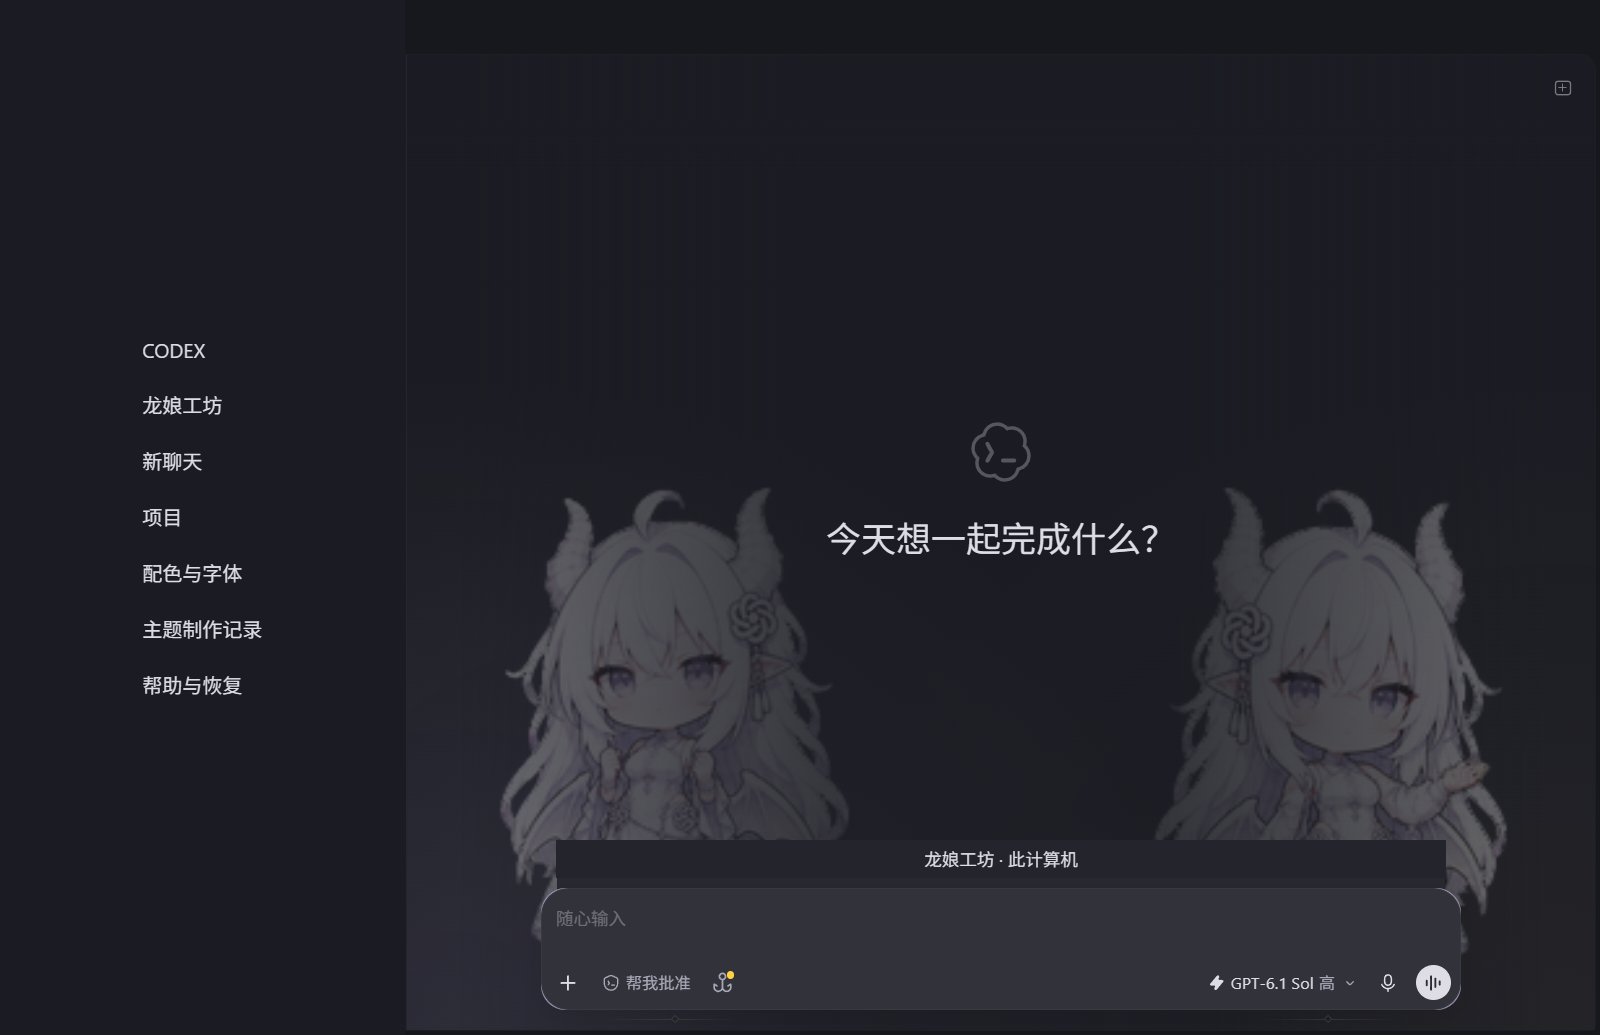
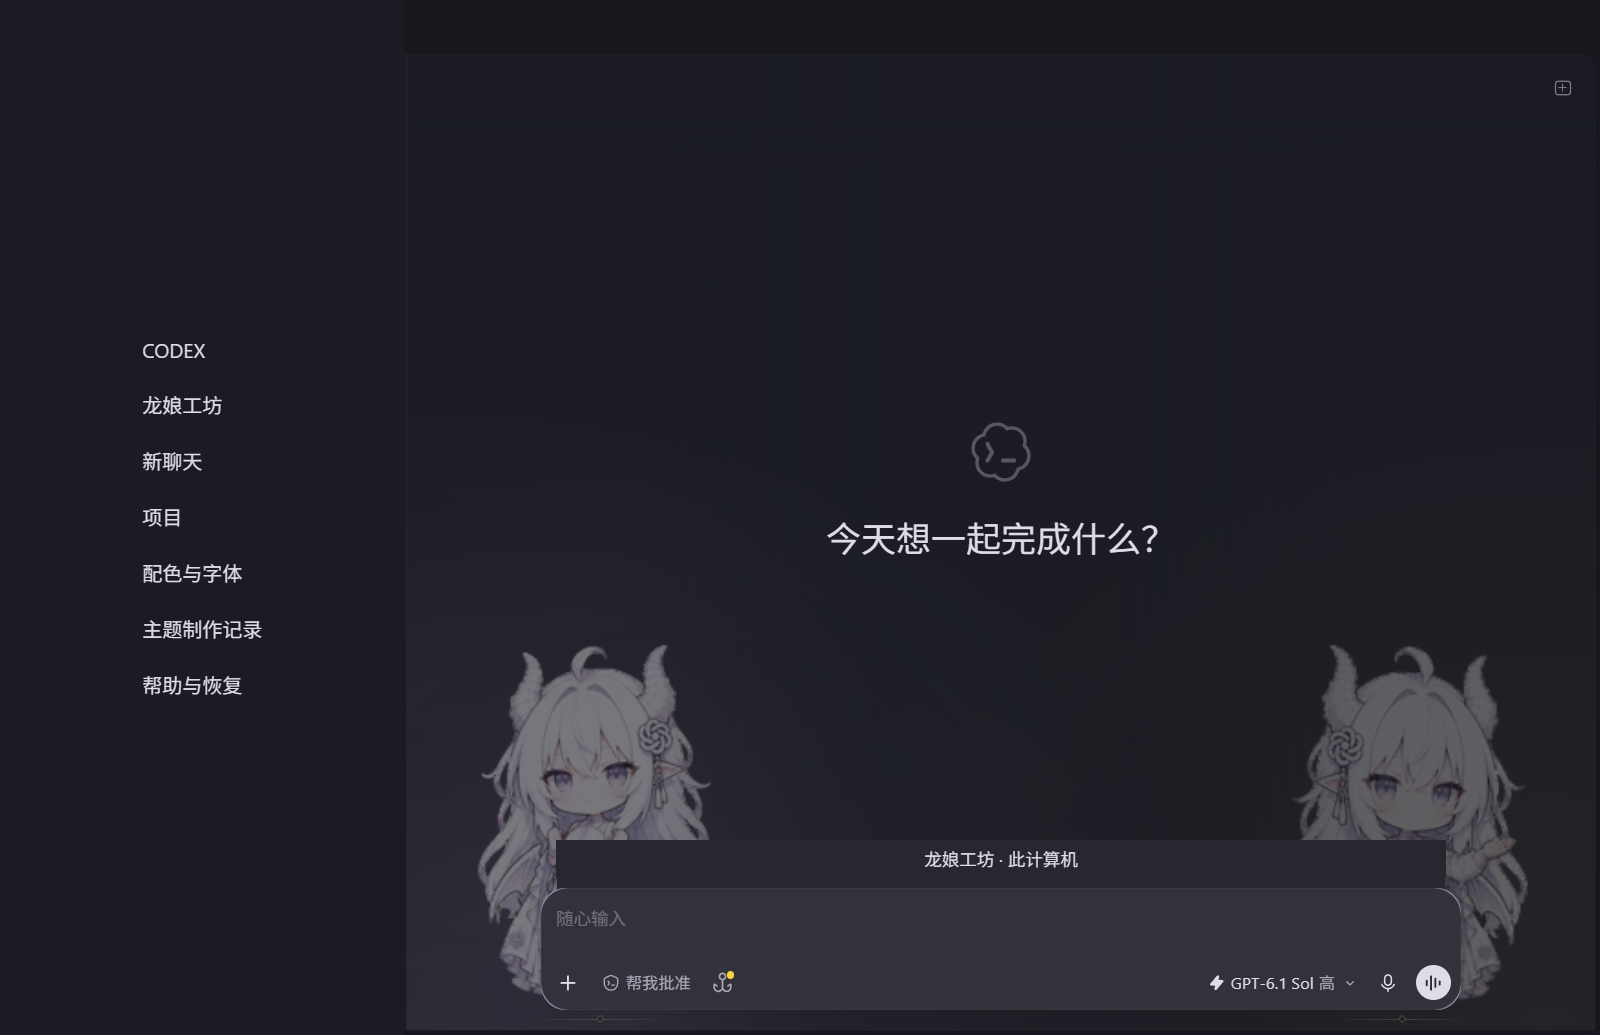
Refine dual backgrounds after design review and fix WinPS launch hashing

Changed region(s): [[0.7188, 0.4638, 0.9688, 0.9585], [0.2812, 0.4638, 0.5, 0.9585]]

diff --git a/src/atelier.css b/src/atelier.css
@@ -1,12 +1,12 @@
 html[data-dragon-atelier] {
-  --da-bg: #1b1c23; --da-panel: #23242c; --da-alt: #2b2c35;
+  --da-bg: #1b1c23; --da-panel: #26272f; --da-alt: #2b2c35;
   --da-text: #dedde6; --da-muted: #aaa8b8; --da-accent: #b4a6ce;
-  --da-line: #484651; --da-gold: #a89773;
+  --da-line: #53515f; --da-gold: #a89773;
 }
 html[data-dragon-atelier][data-da-mode=light] {
   --da-bg: #e8e7ed; --da-panel: #f0eff3; --da-alt: #dedce5;
   --da-text: #35333f; --da-muted: #625d70; --da-accent: #6f5888;
-  --da-line: #b7b0c4; --da-gold: #776346;
+  --da-line: #b0a8bc; --da-gold: #776346;
 }
 /* Palette is bound to stable semantic slots. Native fonts, geometry and status colors remain authoritative. */
 html[data-dragon-atelier] [data-da-part] {
@@ -58,23 +58,28 @@ html[data-dragon-atelier] [data-da-part=main] :is([data-local-conversation-final
 #dragon-atelier-scene * {pointer-events:none !important;}
 #dragon-atelier-scene::after {
   content:'';position:absolute;inset:0;pointer-events:none;
-  background:linear-gradient(90deg,transparent 4%,color-mix(in srgb,var(--da-bg) 65%,transparent) 35%,color-mix(in srgb,var(--da-bg) 65%,transparent) 65%,transparent 96%);
+  background:linear-gradient(90deg,transparent 20%,color-mix(in srgb,var(--da-bg) 50%,transparent) 40%,color-mix(in srgb,var(--da-bg) 50%,transparent) 60%,transparent 80%);
 }
 #dragon-atelier-scene .da-dragon {
   position:absolute;bottom:12px;width:var(--da-character-width,400px);aspect-ratio:192/208;
   background-repeat:no-repeat;background-size:800% 1100%;background-position:0 0;
-  filter:brightness(.78) saturate(.64);opacity:.44;
+  --da-art-opacity:.48;--da-art-thread-opacity:.24;
+  filter:brightness(.82) saturate(.68);opacity:var(--da-art-opacity);
 }
-html[data-da-mode=light] #dragon-atelier-scene .da-dragon {filter:brightness(.92) saturate(.64);opacity:.34;}
-#dragon-atelier-scene .da-right {transform:scaleX(-1);background-position:28.5714285714% 60%;}
+html[data-da-mode=light] #dragon-atelier-scene .da-dragon {filter:brightness(.88) saturate(.62);}
+#dragon-atelier-scene .da-right {transform:scaleX(-1);background-position:28.5714285714% 60%;--da-art-opacity:.38;--da-art-thread-opacity:.16;filter:brightness(.78) saturate(.64);}
+html[data-da-mode=light] #dragon-atelier-scene .da-right {--da-art-thread-opacity:.18;filter:brightness(.90) saturate(.58);}
 /* Existing full-body illustrations with background-only alpha edits.
    Both static figures belong behind native content, with an unequal scale. */
 #dragon-atelier-scene[data-da-edition=portrait] .da-dragon {
   aspect-ratio:941/1672;background-size:100% 100%;background-position:center;
-  transform:none;filter:brightness(.86) saturate(.58);opacity:.38;
+  --da-art-opacity:.42;--da-art-thread-opacity:.22;
+  transform:none;filter:brightness(.88) saturate(.62);
   mask-image:linear-gradient(0deg,transparent,#000 8%);
 }
-html[data-da-mode=light] #dragon-atelier-scene[data-da-edition=portrait] .da-dragon {filter:brightness(.96) saturate(.58);opacity:.34;}
+html[data-da-mode=light] #dragon-atelier-scene[data-da-edition=portrait] .da-dragon {--da-art-opacity:.45;--da-art-thread-opacity:.26;filter:brightness(.94) saturate(.56);}
+#dragon-atelier-scene[data-da-edition=portrait] .da-right {--da-art-opacity:.32;--da-art-thread-opacity:.14;filter:brightness(.84) saturate(.58);}
+html[data-da-mode=light] #dragon-atelier-scene[data-da-edition=portrait] .da-right {--da-art-opacity:.36;--da-art-thread-opacity:.18;filter:brightness(.92) saturate(.52);}
 #dragon-atelier-scene[data-da-edition=portrait] .da-left {aspect-ratio:937/1678;}
 #dragon-atelier-scene .da-ornament {
   position:absolute;bottom:8px;height:1px;width:110px;background:linear-gradient(90deg,transparent,var(--da-gold),transparent);opacity:.3;
@@ -83,8 +88,7 @@ html[data-da-mode=light] #dragon-atelier-scene[data-da-edition=portrait] .da-dra
   content:'';position:absolute;width:5px;height:5px;left:53px;top:-2px;
   border:1px solid var(--da-gold);transform:rotate(45deg);background:var(--da-bg);
 }
-#dragon-atelier-scene[data-da-context=thread] .da-dragon {opacity:.18;}
-html[data-da-mode=light] #dragon-atelier-scene[data-da-context=thread] .da-dragon {opacity:.14;}
+#dragon-atelier-scene[data-da-context=thread] .da-dragon {opacity:var(--da-art-thread-opacity);}
 #dragon-atelier-scene[data-da-hidden=true] {visibility:hidden;}
 @media (prefers-reduced-motion:reduce) {
   #dragon-atelier-scene * {transition:none !important;animation:none !important;}

diff --git a/src/renderer.js b/src/renderer.js
@@ -76,8 +76,9 @@
     // Large, quiet background figures scale with the chat surface, not viewport.
     // Active conversations retreat; narrow surfaces keep the reading space clear.
     const portrait=CONFIG.edition==='portrait';
-    const widths=portrait?[.94,.72].map((scale,i)=>Math.min(box.width*(i===0?.40:.32),box.height*(home?scale:scale*.66)*CONFIG.aspects[i])):
-      [0,1].map(()=>Math.min(home?440:360,box.width*.42,box.height*(home?.82:.64)*192/208));
+    const widths=portrait?[.94,.72].map((scale,i)=>Math.min(box.width*(i===0?.42:.26),box.height*(home?scale:scale*.66)*CONFIG.aspects[i])):
+      // The source frame is 192x208: cap enlargement rather than inventing detail.
+      [0,1].map(()=>Math.min(home?280:240,box.width*.34,box.height*(home?.60:.46)*192/208));
     const width=widths[0];
     const visible=box.width>=700&&box.height>420;
     setAttr(scene,'data-da-hidden',visible?'false':'true');

diff --git a/docs/VALIDATION.md b/docs/VALIDATION.md
@@ -1,21 +1,22 @@
-# v0.1.0-beta.2 本地候选验证
+# v0.1.0-beta.2 验证
 
-2026-10-07，Windows Store Codex 26.1002.6548.0，Node 24.16.0。此次未发布新 GitHub Release；公开首版记录保留在后半部分。
+2026-10-07，Windows Store Codex 26.1002.6548.0，Node 24.16.0。首版记录作为历史范围保留在后半部分。
 
 ## 本次真实客户端
 
 - Q 版与正常立绘版首页：原生深/浅两主题，聊天底层舞台、各两个人物、132 个空间命中点均不由舞台接收点击；截图已逐张人工查看并匿名化。
 - 两版输入区与移除装饰后的几何差异小于 1px；实际输入测试字再清空、不发送；原生模型菜单打开和关闭、恢复均通过。
-- 当前真实会话中两版都识别 thread、显示两个人物，输入命中通过。正常立绘版深浅两种会话中用真实鼠标滚轮验证阅读区滚动，不发送消息。
+- 评审改动后重新检查：Q 版和正常立绘版各自的深浅两种首页、输入、原生模型菜单、恢复，以及真实会话滚轮均通过。当前真实会话识别 thread、各显示两个人物，不发送消息。
 - 当前客户端聊天列采用 flex-col-reverse，scrollTop 可为负数；测试按真实滚轮行为核对，未把正向 scrollTop 赋值无变化误判为冻结。
 - PowerShell 5.1 启动 -> PowerShell 7 恢复，以及 7 启动 -> 5.1 恢复均通过；身份时间比较兼容 JSON 日期自动转换。切换版型核对 PID、路径及创建时间，只结束自己的观察进程。
+- 最终中文 CMD 入口检查发现当前 WinPS 环境无法解析 Get-FileHash。哈希计算已改为 .NET SHA256，避免依赖该模块函数，不修改系统模块路径；随后重新执行启动入口。
 - 测试窗口关闭时，后台 CDP 和 renderer 仍存在，动画帧停止。重复打开同一测试配置恢复了窗口和自动点击，未改变窗口尺寸。启动器已加入同配置重新打开处理；不是历史桌面遮挡的复现。
 - 当前运行版型为正常立绘版，保留原生明暗选择与字体。未验证全新账号首次登录或未来客户端升级。
 
 ## 自动检查与素材
 
 - 每版 16 类浏览器行为回归通过：自动明暗、语义状态色、窄列/侧面板挤占退让、聊天内 z0 舞台、菜单层级、边缘控件点击、静态不同姿态、空闲无持续重绘、缓存旧路由、会话背景、减少动态效果、inert、缺失锚点、未知定位主区域降级、恢复。
-- 3 项配色测试通过，正文与次要文字在定义阅读表面满足 4.5:1。未据此声称人物下的每个实际像素都已逐一测量。
+- 3 项配色测试通过，并独立重算最终色值、核对 CSS 与 tokens 一致。深色正文/次要文字在定义表面最低 10.295 / 5.945，浅色最低 9.121 / 4.662；焦点色对面板 6.569 / 5.353。装饰边线不声明满足 3:1；未据此声称每个实际像素或全部原生控件已逐一测量。
 - Q 原始图集字节未变；正常立绘原图与透明成品均有来源、尺寸、SHA256。透明成品 RGBA、四角 alpha=0，白色人物区域保持不透明填色；做了背景处理，不声称像素完全一致。
 - 构建和包装使用明确白名单，私有 evidence、用户配置和认证材料不进入包。
 
@@ -25,9 +26,11 @@
 
 只读原生窗口快照及“无匹配开屏进程时不结束其他应用”的恢复分支，在 PowerShell 5.1/7 均执行通过。故障现场的命中句柄和实际开屏运行中解除仍需现场验证。
 
-## 尚待事项
+## 设计评审与未验证范围
 
-用户要求的 Opus 5.5 设计评审提示词已准备；自动审批拒绝向 Wawazz 发送 CSS/配色及匿名截图，等待具体发送授权。本记录不声称该模型已调用成功。其他平台、客户端版本、显示缩放、多显示器、跨升级迁移未验证。
+用户明确授权后，通过既有本地 Wawazz 链路发送项目设计提示、CSS/配色及四张匿名主题截图。首次直连在上传时连接重置；随后通过现有系统代理完成一次评审，HTTP 200，请求及返回模型标识均为 claude-opus-5-5，正常 end_turn。标识由转发服务返回，不作为底层模型身份的独立证明。完整原始评审与请求仅保存在本机忽略目录；公开说明见 [设计评审](DESIGN_REVIEW.md)。
+
+其他平台、客户端版本、不同显示缩放、多显示器、跨升级迁移、长期内存稳定性、真实系统高对比度模式，以及每类 Markdown / 语法高亮的专门视觉验收未完成。模拟行为回归和当前客户端检查不能代替这些范围。
 
 ---
 

diff --git a/README.md b/README.md
@@ -2,7 +2,7 @@
 
 克制的明暗双主题，同一位 GPT 白发龙娘的双姿态作为聊天背景。灵感来自 DSH Maid Atelier 的底层舞台与双角色构图；这是独立的非官方主题项目。
 
-**v0.1.0-beta.2 本地候选版 · Windows Store Codex 26.1002.6548.0 实机验证。** 当前公开 Release 仍为 v0.1.0-beta.1；本分支的背景版尚未发布。原生配色通过官方导入，人物通过可恢复的本机 CDP 装饰。
+**v0.1.0-beta.2 · Windows Store Codex 26.1002.6548.0 实机验证。** [Windows 预发布下载](https://github.com/NoelCornel/Codex-Dragon-Atelier/releases/tag/v0.1.0-beta.2)。原生配色通过官方导入，人物通过可恢复的本机 CDP 装饰。
 
 | Q 版背景 | 正常立绘背景 |
 |---|---|
@@ -22,7 +22,7 @@ Q 版素材：fywdy，原设 ZipZipPipe。立绘左侧：ZipZipPipe，右侧：A
 ## 体验与恢复
 
 - 静态人物放在聊天主区域第一子节点、z-index:0，正文、输入区及原生菜单保留在前景；人物不可点击、不会生成桌面置顶覆盖窗。
-- Q 版采用原始图集两个不同静态姿态。立绘版使用两张现成正常比例图，一大一小；只做透明背景处理，不绑定模型名称。
+- Q 版采用原始图集两个不同静态姿态，限制放大尺寸。立绘版使用两张现成正常比例图，一大一小；只做透明背景处理，不绑定模型名称。
 - 会话页人物退让；聊天区域宽度小于 700px 或高度不大于 420px 时隐藏。设置页和系统高对比度模式不显示人物。
 - 保留原生明暗切换、字体、输入区尺寸及红绿语义颜色。所有人物均为静态，减少动态效果模式同样适用。
 - 双击「恢复装饰.cmd」结束本项目观察进程并移除本项目样式和人物。原生配色保留；恢复颜色需导入先前保存的分享码。
@@ -39,13 +39,13 @@ python tests/browser-regression.py
 node scripts/package.mjs
 ```
 
-模拟回归需要 Python Playwright 和 Chromium。实际客户端与模拟页面的检查分开记录，见 [验证记录](docs/VALIDATION.md)。构建产物在 `dist/`；包使用文件白名单，不含本机证据、账号配置或聊天内容。
+模拟回归需要 Python Playwright 和 Chromium。实际客户端与模拟页面的检查分开记录，见 [验证记录](docs/VALIDATION.md)。本版经过一次用户授权的 Opus 设计评审，采纳与约束的取舍见 [设计评审](docs/DESIGN_REVIEW.md)。构建产物在 `dist/`；包使用文件白名单，不含本机证据、账号配置或聊天内容。
 
 新版 Codex 保留不可见旧路由，适配器仅选择可见节点。缺失锚点或未来客户端采用不支持的主区域定位时关闭装饰。兼容版本在 `src/adapter.json`；其他版本、平台及跨更新迁移尚未验证。
 
 ## 分支、补丁与授权
 
-独立仓库：`main` 为首版公开基线，`theme/dragon-atelier` 为首版主题分支；当前本地背景改造在 `fix/background-stage-handoff`，未推送新 Release。
+独立仓库：`main` 为首版公开基线，`theme/dragon-atelier` 为首版主题分支；本版背景改造在 `fix/background-stage-handoff`。旧版 Release 保留，新增版本作为预发布提供。
 
 另附 Dynamic Skin Manager 1.6.2 的 [运行时资源打包修复补丁](patches/README.md)，未重编译管理器 EXE，未声称上游合入。
 

diff --git a/docs/DESIGN_REVIEW.md b/docs/DESIGN_REVIEW.md
@@ -1,0 +1,47 @@
+# 设计评审与实现取舍
+
+2026-10-07，对 Q 版 / 正常立绘版各自的深浅实机匿名截图、项目需求和 CSS / 配色做了一次授权评审。复用本机既有 Wawazz 的 Anthropic messages 链路，请求与返回的模型标识均为 `claude-opus-5-5`；HTTP 200、完整 end_turn。服务返回的标识不能独立证明底层模型身份。
+
+原始请求、认证调用脚本和完整响应都不进入仓库与发行包。没有外发私人聊天、故障日志或本机配置；凭据仅用于认证。
+
+## 采纳的方向
+
+- 增强浅色人物线条、通过左右不同透明度建立主次。
+- 正常立绘首页拉开大小：宽度上限为聊天列 42% / 26%，同时约束各自高度和原图宽高比。当前实机首页为 399 / 247px；会话退让后不承诺恒定 1.6:1 比例。
+- 中央渐变最大背景混合由 65% 降到 50%，20–40% / 60–80% 为两侧过渡。原实现已有渐变，评审所称“硬边界”不作为已证实的代码问题。
+- 深色面板改为 #26272f、边线 #53515f；浅色边线 #b0a8bc，改善表面层级。
+
+## 保留与修正
+
+用户要求降低整体亮度，因此保留原底色 #1b1c23 / #e8e7ed，没有采用全面提亮浅色到近白的建议。所有原生字体、字号、几何布局、菜单层级和状态色保持由原生客户端负责，不新增水印控件或网络字体。
+
+Q 帧仅有 192×208，首页 / 会话最大宽度改为 280 / 240px，减少放大模糊。原图集不修改；这不是高分辨率重制，仍受素材本身分辨率限制。
+
+评审建议的宽度 CSS 示例遗漏了人物宽高比，实际仍通过现有 renderer 计算尺寸，没有直接复制示例。评审给出的对比度为估算，实施后在本地重新计算。
+
+## 最终人物参数
+
+下表透明度为左 / 右；滤镜按深 / 浅两套固定，会话只调整透明度和尺寸。
+
+| 版本 | 首页深色 | 首页浅色 | 会话深色 | 会话浅色 |
+|---|---|---|---|---|
+| Q | .48 / .38 | .48 / .38 | .24 / .16 | .24 / .18 |
+| 正常立绘 | .42 / .32 | .45 / .36 | .22 / .14 | .26 / .18 |
+
+| 版本 | 深色左 brightness / saturate | 深色右 | 浅色左 | 浅色右 |
+|---|---|---|---|---|
+| Q | .82 / .68 | .78 / .64 | .88 / .62 | .90 / .58 |
+| 正常立绘 | .88 / .62 | .84 / .58 | .94 / .56 | .92 / .52 |
+
+## 配色实算与验收界限
+
+按 sRGB 相对亮度计算；正文和次要文字取 background / panel / panelAlt 三种定义阅读表面中的最低值。
+
+| 模式 | 正文最低 | 次要文字最低 | 焦点对面板 |
+|---|---|---|---|
+| 深色 | 10.295:1 | 5.945:1 | 6.569:1 |
+| 浅色 | 9.121:1 | 4.662:1 | 5.353:1 |
+
+这不是整个客户端的无障碍认证。装饰边线未声明 3:1，每个原生控件、人物后面的实际像素仍需按使用情境检查。
+
+最终改动后重新做了两版本、两模式的真实首页截图 / 输入不发送 / 原生模型菜单 / 恢复，以及实际会话鼠标滚轮。场景回归覆盖窄列、侧面板挤占、菜单层级、缺失节点降级、点击穿透和空闲无持续重绘。原生控件没有因人物增加新桌面窗口；未来 Codex 升级及其他平台仍需重新验证，见 [完整记录](VALIDATION.md)。

diff --git a/docs/DESIGN.md b/docs/DESIGN.md
@@ -4,7 +4,9 @@
 
 DSH Maid Atelier 的参考颗粒度是聊天区域内的底层舞台，不是桌面浮窗：主聊天节点已有定位，不新增它的 z-index 或 isolation；人物舞台作为第一个子节点，绝对定位、z-index:0、contain:strict、inert、pointer-events:none。后续静态原生子节点只补 position:relative，不提升层级，原生弹层保留自身层级。嵌套聊天画布透明，实际消息表面采用 94% 背景混合以保护阅读。
 
-Q 版显示 fywdy 原图集的两个静态姿态。正常立绘使用 ZipZipPipe 原图与 ApprenTice 已有另一姿态，imagegen 仅移除背景，按透明成品的各自宽高比显示。左右按聊天主区域尺寸缩放，正常立绘一大一小；活跃会话缩小、降低不透明度。聊天区域宽度小于 700px 或高度不大于 420px 时隐藏，侧面工作面板占位也会触发退让，不只检查整个窗口。
+Q 版显示 fywdy 原图集的两个静态姿态。原帧只有 192×208，首页宽度上限 280px、会话 240px，避免过度放大，不声称获得更高分辨率细节。正常立绘使用 ZipZipPipe 原图与 ApprenTice 已有另一姿态，imagegen 仅移除背景，按透明成品的各自宽高比显示。左右按聊天主区域尺寸缩放，正常立绘首页宽度上限为聊天列的 42% / 26%，高度上限 94% / 72%；会话高度再乘 .66。聊天区域宽度小于 700px 或高度不大于 420px 时隐藏，侧面工作面板占位也会触发退让，不只检查整个窗口。
+
+左右人物使用独立的透明度与滤镜。浅色加强线条的可辨认程度；会话页降低人物存在感，消息表面继续保护正文。中央背景渐变由 65% 降到 50%，两侧过渡区是 20–40% / 60–80%。深色只加强面板和边界；浅色保持原有底色亮度。具体参数、实算对比度及评审取舍见 [设计评审](DESIGN_REVIEW.md)。
 
 computed color-scheme 是原生明暗信号，旧 electron-dark/light 类只作为回退。适配器选择可见原生节点，避免新版缓存旧路由误判。缺少节点或主聊天节点为 position:static 时降级关闭，不修改未知布局。
 

diff --git a/docs/RELEASE_NOTES.md b/docs/RELEASE_NOTES.md
@@ -1,0 +1,17 @@
+# 龙娘工坊 v0.1.0-beta.2
+
+两个静态聊天背景版本：Q 版双姿态与正常立绘左大右小。人物位于原生聊天内容后方，保留克制的明暗双主题、原生字体、输入几何和菜单。构图灵感来自 DSH Maid Atelier。
+
+本版经过一次授权的 Opus 设计评审并在本机复核：增强浅色人物细节、降低中央渐变强度、拉开立绘大小、限制 Q 图放大。底色保持低亮度，完整取舍见 docs/DESIGN_REVIEW.md。
+
+验证：Windows Store Codex 26.1002.6548.0、Node 24.16.0。两版本各自的深浅首页、输入不发送、模型菜单、恢复，以及真实会话滚轮均通过；每版 16 类场景回归和配色检查通过。其他平台 / 版本 / 缩放 / 多显示器和长期运行未完整验收。
+
+使用：下载 Windows ZIP，核对 SHA256SUMS.txt。需要 Node.js 22+；先保存原生主题分享码，导入 ZIP 内深浅分享码，再运行“启动Q版背景.cmd”或“启动立绘背景.cmd”。独立配置窗口可能需要重新登录；“恢复装饰.cmd”移除本项目装饰。
+
+启动器能重新打开关闭后仍保留后台 renderer 的同配置窗口；哈希计算改用 .NET SHA256，兼容 WinPS 中 Get-FileHash 无法解析的环境。另提供“记录窗口遮挡.cmd”与严格按安装路径及 PID 创建时间匹配的“解除开屏遮挡.cmd”。历史开屏卡死原因尚未确认，这些工具不代表已彻底修复该故障。
+
+保留 Dynamic Skin Manager 1.6.2 运行时文件遗漏的源补丁，未重编译其 EXE。
+
+署名：GPT 原设 / ZipZipPipe；Q 素材 / fywdy；右侧正常立绘 / ApprenTice；DSH 构图灵感 / Small-tailqwq。代码 MIT；Q 图片 CC BY-NC 4.0；ApprenTice 图片及透明衍生版本 CC BY-NC-SA 4.0；ZipZipPipe 原作保留第一方署名与非商用取用条件。透明背景做了处理并保留原图，详见 NOTICE.md。代码许可不覆盖图片或原设权利。
+
+非官方实验性预发布，与 OpenAI 无官方授权、赞助或背书。
